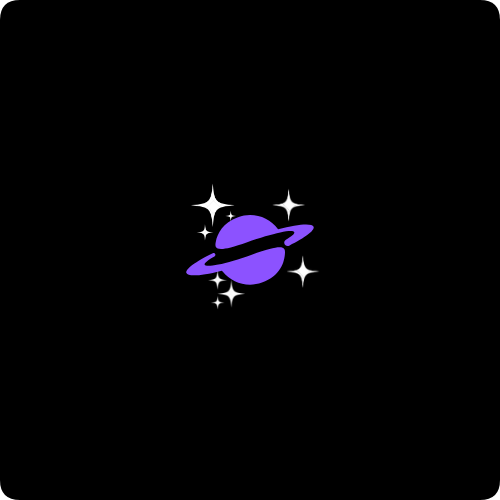
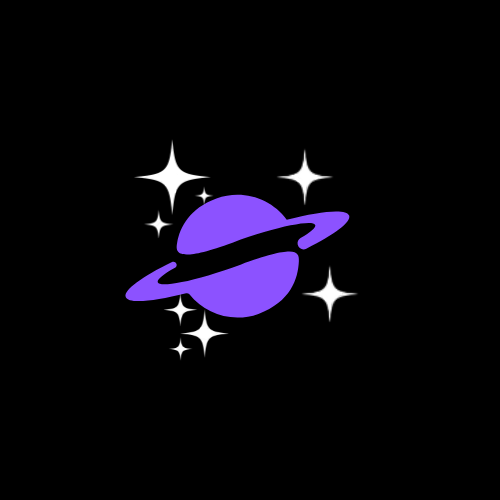
Add Project Asteria to the list of projects

diff --git a/src/constants/projects.ts b/src/constants/projects.ts
@@ -12,7 +12,7 @@ const Projects = [
     },
     {
         name: 'P.U.L.S.E.D',
-        description: 'P.U.L.S.E.D is my software company i release some stuff under.',
+        description: 'P.U.L.S.E.D founded by myself is a company I created to develop various software solutions.',
         image: '/assets/images/projects/pulsedlogo.svg',
         href: 'https://pulsedinc.tech',
         hint: 'Visit website',
@@ -33,6 +33,15 @@ const Projects = [
         description: 'A uptime website for my projects and services.',
         href: 'https://exo-net.o4bit.space',
         image: '/assets/images/projects/uptime-serve.png',
+        hint: 'View website',
+        width: '130px',
+        height: '131px',    
+    },
+    {
+        name: 'Project Asteria',
+        description: '',
+        href: 'https://github.com/O4bit/project-asteria',
+        image: '/assets/images/projects/project-asteria.png',
         hint: 'View website',
         width: '130px',
         height: '131px',    
